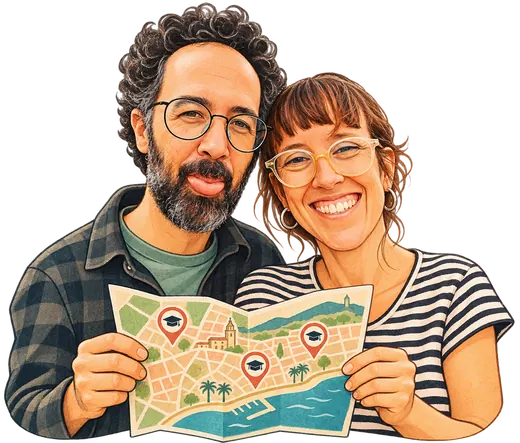
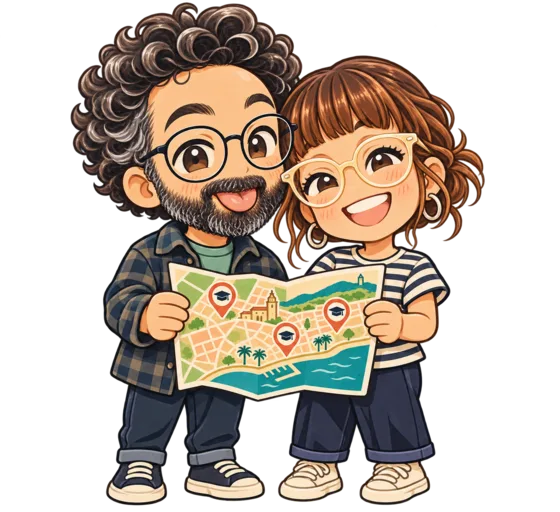
Afegeix guia interactiva de benvinguda en tres passos

diff --git a/index.html b/index.html
@@ -289,26 +289,33 @@ header.site-header{position:relative;z-index:500;box-shadow:0 5px 18px rgba(21,5
 .controls-secondary .layer-toggle{min-height:40px;padding:6px 13px;border-radius:999px}
 @media(max-width:620px){.ownership-legend{width:100%;padding-left:2px}.controls-secondary .layer-toggle{flex:1 1 auto;justify-content:flex-start}}
 </style><style>
-.welcome-dialog{box-sizing:border-box;width:min(690px,calc(100vw - 28px));max-width:none;max-height:calc(100dvh - 28px);overflow:auto;padding:0;border:1px solid #b8d0d8;border-radius:24px;background:#fffdf7;color:#15394d;box-shadow:0 24px 80px rgba(11,42,61,.28)}
+.welcome-dialog{box-sizing:border-box;width:min(760px,calc(100vw - 28px));max-width:none;max-height:calc(100dvh - 28px);overflow:auto;padding:0;border:1px solid #b8d0d8;border-radius:24px;background:#fffdf7;color:#15394d;box-shadow:0 24px 80px rgba(11,42,61,.28)}
 .welcome-dialog::backdrop{background:rgba(13,39,55,.66)}
-.welcome-layout{display:grid;grid-template-columns:minmax(150px,220px) minmax(0,1fr);align-items:center;gap:clamp(16px,3vw,28px);padding:clamp(20px,4vw,34px)}
+.welcome-layout{display:grid;grid-template-columns:minmax(180px,270px) minmax(0,1fr);align-items:center;gap:clamp(16px,3vw,28px);padding:clamp(20px,4vw,34px)}
 .welcome-art{display:grid;place-items:center;min-width:0}
-.welcome-art img{display:block;width:100%;height:auto;max-height:360px;object-fit:contain}
+.welcome-art img{display:block;width:100%;height:auto;max-height:390px;object-fit:contain}
 .welcome-copy{min-width:0}
 .welcome-kicker{margin:0 0 7px;color:#087c98;font-size:.82rem;font-weight:750;letter-spacing:.07em;text-transform:uppercase}
 .welcome-copy h2{margin:0 40px 9px 0;color:#15394d;font-size:clamp(1.45rem,3vw,1.85rem);line-height:1.15}
-.welcome-copy>p:not(.welcome-kicker):not(.welcome-hint){margin:0 0 13px;line-height:1.5}
-.welcome-steps{display:grid;gap:8px;margin:0 0 18px;padding-left:1.2em;line-height:1.45}
-.welcome-steps li::marker{color:#087c98}
-.welcome-actions{display:flex;align-items:center;justify-content:space-between;gap:12px;flex-wrap:wrap}
+.welcome-copy>p:not(.welcome-kicker):not(.welcome-hint){min-height:3em;margin:0 0 16px;line-height:1.5}
+.welcome-progress{display:flex;align-items:center;gap:10px;margin:0 0 10px;color:#425d69;font-size:.9rem;font-weight:700}
+.welcome-progress-track{display:flex;gap:6px}
+.welcome-progress-dot{width:10px;height:10px;border:1px solid #507181;border-radius:50%;background:transparent}
+.welcome-progress-dot[aria-current="step"]{border-color:#087c98;background:#087c98;box-shadow:0 0 0 2px #d7edf0}
+.welcome-actions{display:flex;align-items:center;justify-content:space-between;gap:10px;flex-wrap:wrap}
 .welcome-dismiss-choice{display:flex;align-items:center;gap:8px;min-height:44px;font-size:.92rem;cursor:pointer}
 .welcome-dismiss-choice input{width:20px;height:20px;margin:0;accent-color:#087c98}
-.welcome-start{min-height:48px;padding:10px 18px;border:0;border-radius:999px;background:#174a63;color:#fffdf7;font:inherit;font-weight:750;cursor:pointer}
+.welcome-nav{display:flex;align-items:center;gap:8px;margin-left:auto}
+.welcome-start,.welcome-back,.welcome-skip{min-height:48px;padding:10px 16px;border:1px solid #174a63;border-radius:999px;font:inherit;font-weight:750;cursor:pointer}
+.welcome-start{background:#174a63;color:#fffdf7}
 .welcome-start:hover{background:#08728a}
+.welcome-back,.welcome-skip{background:transparent;color:#174a63}
+.welcome-back:hover,.welcome-skip:hover{background:#e8f2f3}
+.welcome-back[hidden]{display:none}
 .welcome-close{position:absolute;top:12px;right:12px;display:grid;place-items:center;width:44px;height:44px;border:1px solid #9bb8c2;border-radius:50%;background:#fff;color:#15394d;font:inherit;font-size:1.35rem;cursor:pointer}
 .welcome-hint{margin:11px 0 0;color:#425d69;font-size:.88rem;line-height:1.4}
 .welcome-dialog :is(button,input):focus-visible{outline:3px solid #b53d24;outline-offset:3px}
-@media(max-width:600px){.welcome-layout{grid-template-columns:minmax(0,1fr);gap:7px;padding:20px}.welcome-art img{width:min(150px,42vw);max-height:130px}.welcome-copy h2{margin-right:34px}.welcome-actions{align-items:stretch}.welcome-start{width:100%}.welcome-dismiss-choice{order:2}}
+@media(max-width:600px){.welcome-layout{grid-template-columns:minmax(0,1fr);gap:4px;padding:20px}.welcome-art img{width:min(230px,62vw);max-height:190px}.welcome-copy h2{margin-right:34px}.welcome-copy>p:not(.welcome-kicker):not(.welcome-hint){min-height:0}.welcome-actions{align-items:stretch}.welcome-nav{width:100%;margin-left:0}.welcome-nav button{flex:1}.welcome-dismiss-choice{order:2}}
 @media(prefers-reduced-motion:reduce){.welcome-dialog,.welcome-dialog *{scroll-behavior:auto!important;animation:none!important;transition:none!important}}
 </style><link rel="stylesheet" href="mataro-theme.css?v=20261121-6"><a class="skip-link" href="#map">Ves directament al mapa</a><header class="site-header"><div class="masthead"><div class="masthead-copy"><h1><svg class="city-crest" viewBox="0 0 64 72" aria-hidden="true" focusable="false"><path d="m15 14 3-10 8 7 6-9 7 9 8-7 2 10" fill="#f4d28b" stroke="#12394d" stroke-width="2.4" stroke-linejoin="round"/><path d="M15 17h34v36L32 68 15 53z" fill="#fffdf5" stroke="#12394d" stroke-width="2.6" stroke-linejoin="round"/><path d="M17 19h15v45L17 52z" fill="#f4d28b"/><path d="M18 19h1.8v33H18zm4 0h1.8v38H22zm4 0h1.8v40H26zm4 0h1.8v43H30z" fill="#b83c3a"/><path d="M32 19h15v33L32 64z" fill="#fffdf5"/><path d="M32 44h7l3-3 2 2-3 4h-9z" fill="#1c775f"/><path d="M41 44V29m0 5-5-4m5 8 5-5m-5 11-5-3" fill="none" stroke="#1c775f" stroke-width="2.2" stroke-linecap="round"/><ellipse cx="36" cy="29" rx="3.3" ry="1.8" transform="rotate(35 36 29)" fill="#1c775f"/><ellipse cx="46" cy="32" rx="3.3" ry="1.8" transform="rotate(-42 46 32)" fill="#1c775f"/><ellipse cx="36" cy="38" rx="3.2" ry="1.8" transform="rotate(30 36 38)" fill="#1c775f"/><path d="M15 17h34v36L32 68 15 53z" fill="none" stroke="#12394d" stroke-width="2.6" stroke-linejoin="round"/></svg><a class="home-title" href="index.html">Mataró, ciutat d’escoles</a></h1><a class="masthead-cta" href="#map">Explora l’oferta educativa</a><button class="masthead-cta timeline-cta" id="timeline-toggle" type="button" aria-controls="timeline" aria-expanded="false">Recorre la història educativa</button></div><svg class="mataro-art" viewBox="0 0 300 116" aria-hidden="true" focusable="false"><g fill="none" stroke-linecap="round" stroke-linejoin="round"><g stroke="#f4d489" stroke-width="3"><path d="M25 79h159M46 78V48h34v30M52 48V32h8v16M68 48V32h8v16M41 78V58h-8v20M82 78V58h8v20M91 78V53h71v25M101 53V42h12v11M117 53V42h12v11M135 53V42h12v11M111 42q15-23 30 0M126 19v-7M93 78V62q0-13 13-13h8q13 0 13 13v16M103 78V65q0-8 8-8t8 8v13"/><path d="M174 48h12v30M180 48V34l-6 7h12z"/></g><g stroke="#a8ded2" stroke-width="3"><path d="M23 90q13-8 26 0t26 0 26 0 26 0 26 0 26 0 26 0"/><path d="M35 101q12-7 24 0t24 0 24 0 24 0 24 0 24 0 24 0"/></g></g><g fill="#f0bd62"><path d="m222 40 11 11-11 11-11-11z"/><path d="m248 40 11 11-11 11-11-11z"/><path d="m235 62 11 11-11 11-11-11z"/><path d="m261 62 11 11-11 11-11-11z"/></g><circle cx="235" cy="31" r="3" fill="#f0bd62"/><circle cx="261" cy="31" r="3" fill="#f0bd62"/></svg></div><nav class="controls-nav controls-single-row" aria-label="Filtres dels centres">
 <div class="controls-primary">
@@ -323,11 +330,10 @@ header.site-header{position:relative;z-index:500;box-shadow:0 5px 18px rgba(21,5
 </div>
 </nav></header><dialog class="welcome-dialog" id="welcome-dialog" aria-labelledby="welcome-title" aria-describedby="welcome-description">
 <button class="welcome-close" id="welcome-close" type="button" aria-label="Tanca la benvinguda">×</button>
-<div class="welcome-layout"><div class="welcome-art"><img src="assets/benvinguda-mapa.webp" width="1358" height="1158" alt="Caricatura de dues persones que sostenen un mapa de Mataró amb punts educatius"></div>
-<div class="welcome-copy"><p class="welcome-kicker">Mataró · Ciutat d’escoles</p><h2 id="welcome-title">T’hi donem la benvinguda!</h2>
+<div class="welcome-layout"><div class="welcome-art"><img src="assets/benvinguda-mapa.webp" width="1312" height="1199" alt="Dues persones somrients, dibuixades en estil manga, sostenen un mapa de Mataró amb punts educatius"></div>
+<div class="welcome-copy"><p class="welcome-kicker">Mataró · Ciutat d’escoles</p><p class="welcome-progress"><span id="welcome-step-status" aria-live="polite">Pas 1 de 3</span><span class="welcome-progress-track" aria-hidden="true"><span class="welcome-progress-dot" data-step-dot="0" aria-current="step"></span><span class="welcome-progress-dot" data-step-dot="1"></span><span class="welcome-progress-dot" data-step-dot="2"></span></span></p><h2 id="welcome-title" tabindex="-1">T’hi donem la benvinguda!</h2>
 <p id="welcome-description">Explora l’oferta educativa de Mataró amb el mapa i la llista de centres.</p>
-<ul class="welcome-steps"><li>Cerca un centre o una activitat.</li><li>Activa o desactiva els filtres que t’interessen.</li><li>Tria un punt del mapa o un centre de la llista per obrir-ne la fitxa.</li></ul>
-<div class="welcome-actions"><label class="welcome-dismiss-choice"><input id="welcome-never" type="checkbox"> No tornar a mostrar</label><button class="welcome-start" id="welcome-start" type="button" autofocus>Comença a explorar</button></div>
+<div class="welcome-actions"><label class="welcome-dismiss-choice"><input id="welcome-never" type="checkbox"> No tornar a mostrar</label><div class="welcome-nav"><button class="welcome-skip" id="welcome-skip" type="button">Salta la guia</button><button class="welcome-back" id="welcome-back" type="button" hidden>Enrere</button><button class="welcome-start" id="welcome-next" type="button" autofocus>Següent</button></div></div>
 <p class="welcome-hint">Pots tancar aquesta finestra amb Escape o fent clic fora.</p></div></div>
 </dialog><main class="explorer" id="main-content" tabindex="-1"><div class="map-column"><div id="map" role="region" tabindex="-1" aria-label="Mapa interactiu dels centres educatius de Mataró; les fitxes de la llista també permeten trobar-los"></div><section class="timeline" id="timeline" aria-label="Cronologia interactiva" hidden>
 <div class="timeline-top"><label for="year">Explora la cronologia <output id="selected-year" for="year">Actualitat</output></label>
@@ -2447,15 +2453,38 @@ timelineToggle.addEventListener('click', () => {
 (()=>{
   const dialog=document.getElementById('welcome-dialog');
   const never=document.getElementById('welcome-never');
+  const title=document.getElementById('welcome-title');
+  const description=document.getElementById('welcome-description');
+  const status=document.getElementById('welcome-step-status');
+  const back=document.getElementById('welcome-back');
+  const next=document.getElementById('welcome-next');
+  const dots=[...document.querySelectorAll('[data-step-dot]')];
+  const steps=[
+    {title:'T’hi donem la benvinguda!',description:'Explora l’oferta educativa de Mataró amb el mapa i la llista de centres.',next:'Següent'},
+    {title:'Troba el que t’interessa',description:'Escriu el nom d’un centre o una activitat. També pots activar o desactivar els filtres per veure només les opcions que busques.',next:'Següent'},
+    {title:'Consulta cada centre',description:'Tria un punt del mapa o un centre de la llista per veure’n la fitxa i les dades disponibles.',next:'Comença a explorar'}
+  ];
+  let step=0;
   const close=()=>{if(dialog.open)dialog.close();};
+  const renderStep=()=>{
+    const current=steps[step];
+    title.textContent=current.title;
+    description.textContent=current.description;
+    status.textContent=`Pas ${step+1} de ${steps.length}`;
+    back.hidden=step===0;
+    next.textContent=current.next;
+    dots.forEach((dot,index)=>{if(index===step)dot.setAttribute('aria-current','step');else dot.removeAttribute('aria-current');});
+  };
+  next.addEventListener('click',()=>{if(step===steps.length-1){close();return;}step+=1;renderStep();title.focus({preventScroll:true});});
+  back.addEventListener('click',()=>{if(step>0){step-=1;renderStep();title.focus({preventScroll:true});}});
+  document.getElementById('welcome-skip').addEventListener('click',close);
   const focusSearch=()=>document.getElementById('q')?.focus({preventScroll:true});
   let alreadyDismissed=false;
   try{alreadyDismissed=localStorage.getItem('mataro-welcome-dismissed-v1')==='true';}catch{}
   if(!alreadyDismissed){
-    try{if(sessionStorage.getItem('mataro-welcome-seen-v1')!=='true'){sessionStorage.setItem('mataro-welcome-seen-v1','true');dialog.showModal();}}catch{dialog.showModal();}
+    try{if(sessionStorage.getItem('mataro-welcome-seen-v2')!=='true'){sessionStorage.setItem('mataro-welcome-seen-v2','true');renderStep();dialog.showModal();}}catch{renderStep();dialog.showModal();}
   }
   document.getElementById('welcome-close').addEventListener('click',close);
-  document.getElementById('welcome-start').addEventListener('click',close);
   dialog.addEventListener('click',event=>{if(event.target===dialog)close();});
   dialog.addEventListener('close',()=>{
     if(never.checked){try{localStorage.setItem('mataro-welcome-dismissed-v1','true');}catch{}}
